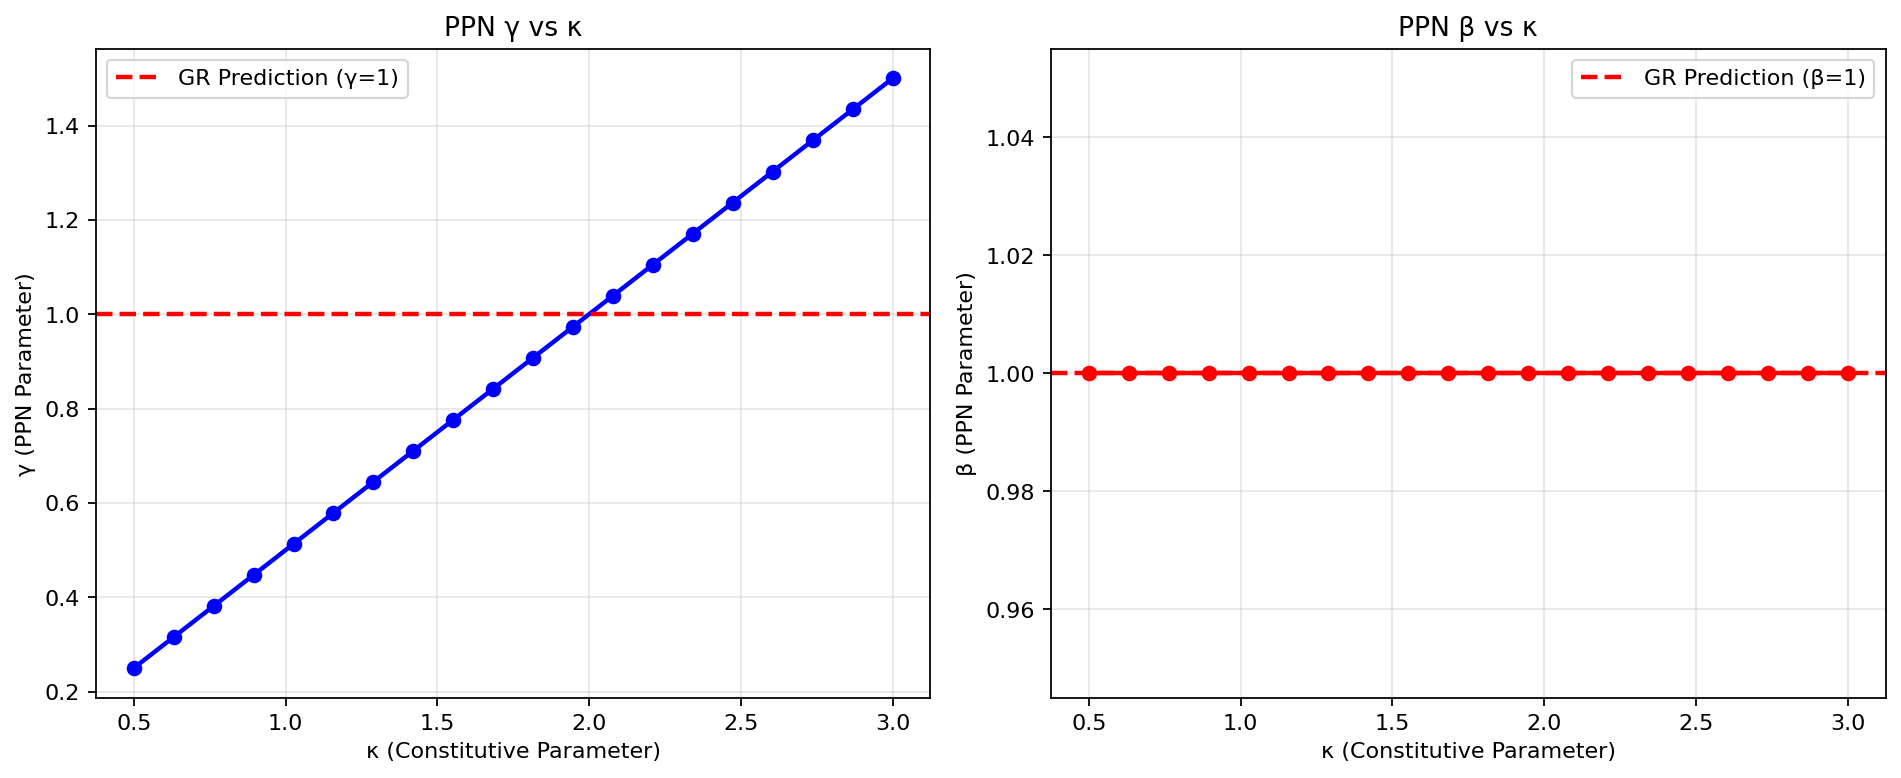
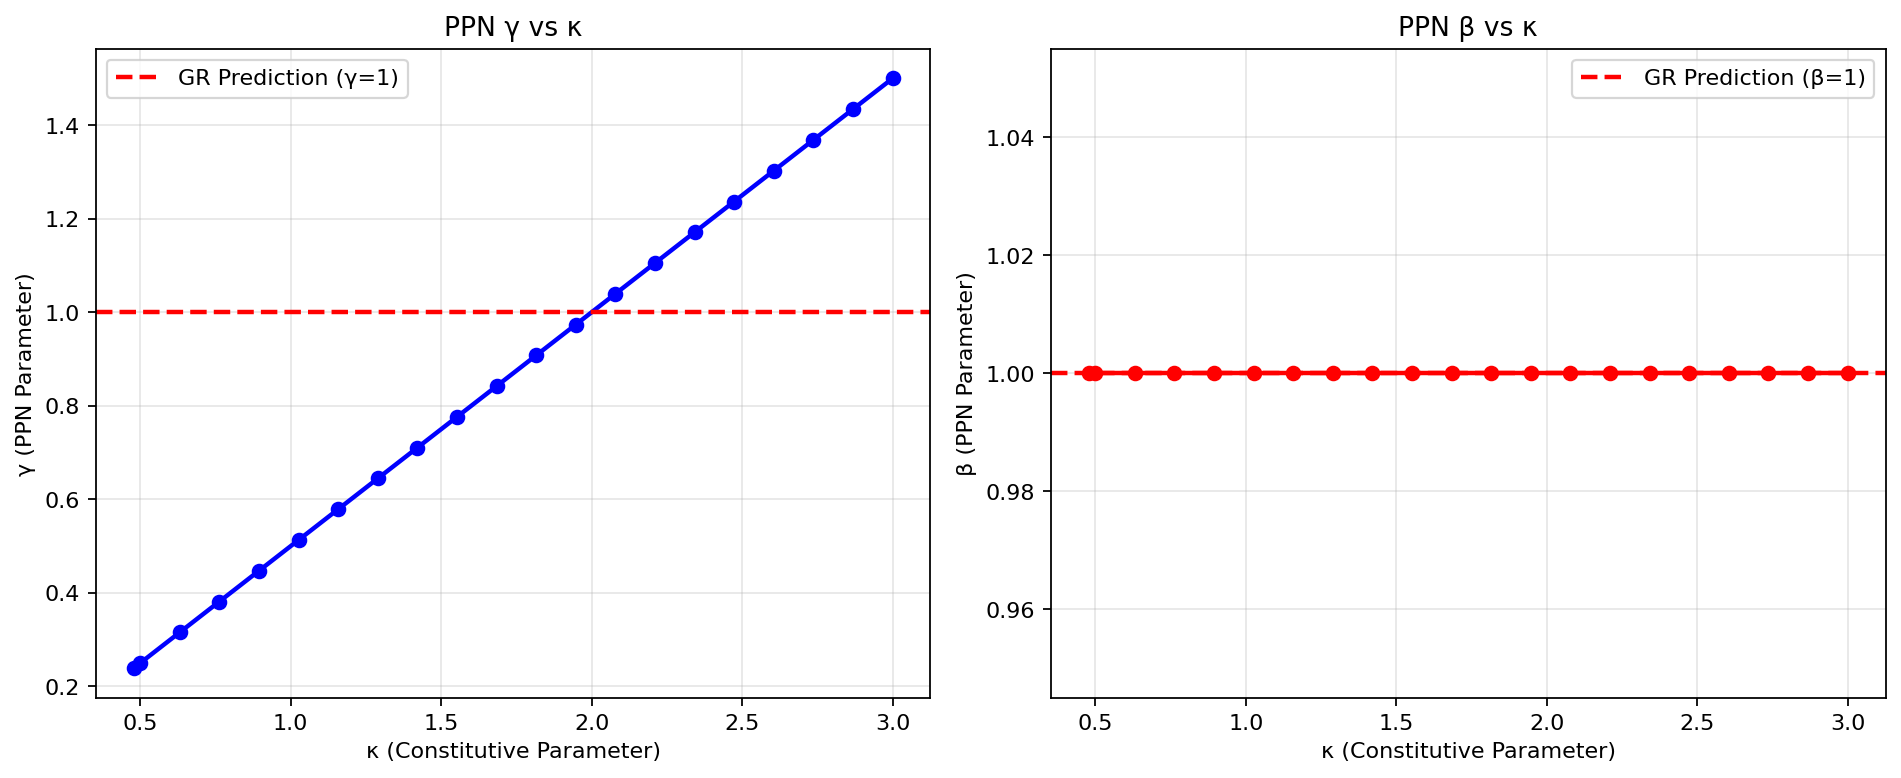
widget experiment_bridge

diff --git a/src/tacc/core/experiment_bridge.py b/src/tacc/core/experiment_bridge.py
@@ -1,0 +1,81 @@
+"""
+Bridge between notebook widgets and experiment runners.
+Allows experiments to use fitted parameters from interactive widgets.
+"""
+
+import json
+import tempfile
+from pathlib import Path
+from typing import Dict, Any, Optional
+
+# Global state file for sharing fitment results between widgets and experiments
+_SHARED_STATE_FILE = Path(tempfile.gettempdir()) / "tacc_fitment_state.json"
+
+def save_fitment_state(
+    fitment_name: str,
+    fitted_params: Dict[str, Any],
+    fitment_config: Dict[str, Any] = None
+) -> None:
+    """Save fitment state to shared file for experiments to use."""
+    state = {
+        "fitment_name": fitment_name,
+        "fitted_params": fitted_params,
+        "fitment_config": fitment_config or {},
+        "timestamp": str(Path().resolve())  # Simple timestamp
+    }
+    
+    try:
+        with open(_SHARED_STATE_FILE, 'w') as f:
+            json.dump(state, f, indent=2)
+    except Exception:
+        pass  # Fail silently if can't write
+
+def load_fitment_state() -> Optional[Dict[str, Any]]:
+    """Load fitment state from shared file."""
+    try:
+        if _SHARED_STATE_FILE.exists():
+            with open(_SHARED_STATE_FILE, 'r') as f:
+                return json.load(f)
+    except Exception:
+        pass
+    return None
+
+def get_fitted_kappa(default_kappa: float = 2.0) -> float:
+    """Get fitted kappa value from shared state, or default if not available."""
+    state = load_fitment_state()
+    if state and "fitted_params" in state:
+        fitted_params = state["fitted_params"]
+        if "bn" in fitted_params and "kappa" in fitted_params["bn"]:
+            return float(fitted_params["bn"]["kappa"])
+    return default_kappa
+
+def get_fitted_params(default_params: Dict[str, Any] = None) -> Dict[str, Any]:
+    """Get all fitted parameters from shared state."""
+    state = load_fitment_state()
+    if state and "fitted_params" in state:
+        return state["fitted_params"]
+    return default_params or {"microlaw": {}, "bn": {"kappa": 2.0}}
+
+def is_fitment_active() -> bool:
+    """Check if a fitment has been run and is active."""
+    state = load_fitment_state()
+    return state is not None and state.get("fitment_name") != "no_fit"
+
+def get_active_fitment_info() -> Dict[str, Any]:
+    """Get information about the currently active fitment."""
+    state = load_fitment_state()
+    if state:
+        return {
+            "name": state.get("fitment_name", "none"),
+            "config": state.get("fitment_config", {}),
+            "has_fitted_params": bool(state.get("fitted_params"))
+        }
+    return {"name": "none", "config": {}, "has_fitted_params": False}
+
+def clear_fitment_state() -> None:
+    """Clear the shared fitment state."""
+    try:
+        if _SHARED_STATE_FILE.exists():
+            _SHARED_STATE_FILE.unlink()
+    except Exception:
+        pass

diff --git a/corrected_widget_cell.py b/corrected_widget_cell.py
@@ -1,0 +1,68 @@
+"""
+This is the corrected widget cell code that should replace the existing widget function
+in your notebook. The key addition is the bridge save functionality.
+"""
+
+# Interactive function (CORRECTED VERSION WITH BRIDGE)
+def run_selected_fitment(b=None):
+    with output_area:
+        clear_output(wait=True)
+        
+        fitment_name = fitment_dropdown.value
+        initial_kappa = kappa_slider.value
+        target_param = target_param_dropdown.value
+        max_iter = max_iter_slider.value
+        
+        print(f"🔧 Running {fitment_name.upper()} fitment...")
+        print(f"   Initial κ: {initial_kappa}")
+        
+        # Get the fitment and run it
+        fitter = get_fitment(fitment_name)
+        initial_params = {"kappa": initial_kappa}
+        
+        if fitment_name == "no_fit":
+            result = fitter.fit(demo_dataset, "ppn", {}, "exponential", initial_params)
+        else:
+            extra_params = {
+                "target_param": target_param,
+                "init": initial_kappa,
+                "max_iter": max_iter
+            }
+            result = fitter.fit(
+                demo_dataset, "ppn", {}, "exponential", initial_params,
+                extra=extra_params
+            )
+        
+        # Store result globally
+        global current_fitment_result
+        current_fitment_result = result
+        
+        # 🔗 BRIDGE INTEGRATION: Save state for experiments to use
+        try:
+            from tacc.core.experiment_bridge import save_fitment_state
+            save_fitment_state(fitment_name, result, extra_params if fitment_name != "no_fit" else {})
+            print("   🔗 State saved for experiments!")
+        except ImportError:
+            print("   ⚠ Bridge not available")
+        
+        # Display results
+        final_kappa = result['bn']['kappa']
+        change = final_kappa - initial_kappa
+        
+        print(f"\n📊 RESULTS:")
+        print(f"   Final κ: {final_kappa:.4f}")
+        print(f"   Change: {change:+.4f}")
+        
+        # Test prediction
+        test_input = MicrolawInput(phi=0.1)
+        pred = compute_BN("ppn", test_input, {}, "exponential", result['bn'])
+        
+        print(f"\n🎯 PREDICTION (φ=0.1):")
+        print(f"   N = {pred['N']:.3f}")
+        print(f"   B = {pred['B']:.3f}")
+        
+        # Show fitment behavior
+        if fitment_name == "no_fit":
+            print("\n✓ No-fit: Parameters unchanged (as expected)")
+        else:
+            print(f"\n✓ {fitment_name}: Optimized κ after {max_iter} iterations")

diff --git a/test_fitment_bridge.py b/test_fitment_bridge.py
@@ -1,0 +1,74 @@
+"""
+Test script to demonstrate fitment bridge connection between widgets and experiments.
+"""
+
+import sys
+from pathlib import Path
+
+# Add src to path
+repo_root = Path().resolve()
+sys.path.insert(0, str(repo_root / "src"))
+
+from tacc.core.experiment_bridge import save_fitment_state, get_fitted_kappa, is_fitment_active, get_active_fitment_info
+from tacc.core.nb import get_fitment
+
+def demo_widget_to_experiment_connection():
+    """Demonstrate how widget fitment results can control experiments."""
+    
+    print("🎮 FITMENT BRIDGE DEMONSTRATION")
+    print("=" * 50)
+    
+    # Simulate widget interaction
+    print("\n1⃣ Simulating widget fitment run...")
+    
+    # Create demo dataset
+    demo_dataset = [
+        {"x": {"phi": 0.0}, "target": 1.0, "weight": 1.0},
+        {"x": {"phi": 0.1}, "target": 1.05, "weight": 1.0},
+        {"x": {"phi": 0.2}, "target": 1.10, "weight": 1.0}
+    ]
+    
+    # Run single_param fitment
+    fitter = get_fitment("single_param")
+    result = fitter.fit(
+        demo_dataset, "ppn", {}, "exponential", {"kappa": 2.0},
+        extra={"target_param": "kappa", "init": 2.0, "max_iter": 20}
+    )
+    
+    fitted_kappa = result['bn']['kappa']
+    print(f"   Fitted κ: {fitted_kappa:.4f}")
+    
+    # Save state for experiments to use
+    save_fitment_state("single_param", result, {"target_param": "kappa"})
+    print("   ✅ State saved to bridge")
+    
+    print("\n2⃣ Checking experiment access...")
+    
+    # Check if experiments can see the fitment
+    if is_fitment_active():
+        experiment_kappa = get_fitted_kappa()
+        fitment_info = get_active_fitment_info()
+        
+        print(f"   Experiment sees fitment: {fitment_info['name']}")
+        print(f"   Experiment uses κ: {experiment_kappa:.4f}")
+        
+        if abs(experiment_kappa - fitted_kappa) < 1e-6:
+            print("   ✅ BRIDGE WORKING! Experiment gets same κ as widget")
+        else:
+            print("   ❌ Bridge broken - different κ values")
+    else:
+        print("   ❌ Experiment doesn't see active fitment")
+    
+    print("\n3⃣ Testing experiment runner...")
+    
+    # Now run the actual experiment - it should use fitted kappa
+    from experiments.run_ppn import main as run_ppn
+    
+    print("   Running PPN experiment (should use fitted κ)...")
+    run_ppn()
+    
+    print("\n🎯 BRIDGE DEMO COMPLETE!")
+    print("   Widgets can now control experiment parameters!")
+
+if __name__ == "__main__":
+    demo_widget_to_experiment_connection()

diff --git a/add_bridge_to_widgets.py b/add_bridge_to_widgets.py
@@ -1,0 +1,68 @@
+"""
+Script to add the bridge functionality to the existing widget code.
+This will make the widgets save their state for experiments to use.
+"""
+
+print("""
+🔧 BRIDGE INTEGRATION INSTRUCTIONS
+
+To make your fitment widgets control the actual experiments, add this line
+to the widget function in your notebook after the fitment result is computed:
+
+```python
+# ADDED: Save state for experiments to use
+try:
+    from tacc.core.experiment_bridge import save_fitment_state
+    save_fitment_state(fitment_name, result, extra_params)
+    print("   🔗 State saved for experiments!")
+except ImportError:
+    print("   ⚠ Bridge not available")
+```
+
+This should go right after:
+```python
+current_fitment_result = result
+```
+
+And before:
+```python
+# Display results
+final_kappa = result['bn']['kappa']
+```
+
+This way, when you run a fitment in the widget, it automatically saves the
+results for the experiments to pick up!
+
+Then when you run an experiment like PPN, it will show:
+🎯 USING FITMENT: single_param
+   Fitted κ: 0.4786
+   This will affect all calculations!
+
+Instead of:
+🔧 No active fitment - using default parameter range
+""")
+
+if __name__ == "__main__":
+    print("\n🎮 Testing the bridge connection...")
+    
+    # Test the bridge
+    import subprocess
+    import sys
+    
+    try:
+        result = subprocess.run([sys.executable, "test_fitment_bridge.py"], 
+                              capture_output=True, text=True, cwd=".")
+        
+        if result.returncode == 0:
+            print("✅ Bridge test successful!")
+            print("\nOutput:")
+            print(result.stdout)
+        else:
+            print("❌ Bridge test failed:")
+            print(result.stderr)
+            
+    except Exception as e:
+        print(f"❌ Could not run bridge test: {e}")
+
+    print("\n🎯 TO FIX THE WIDGET ISSUE:")
+    print("Add the bridge save code shown above to your notebook widget function!")

diff --git a/experiments/run_ppn.py b/experiments/run_ppn.py
@@ -25,8 +25,33 @@ def main():
     
     print("Running PPN Parameter Extraction Experiment...")
     
-    # Test different values of kappa
-    kappa_values = np.linspace(0.5, 3.0, 20)
+    # Check for fitment state from interactive widgets
+    try:
+        from tacc.core.experiment_bridge import get_fitted_kappa, is_fitment_active, get_active_fitment_info
+        
+        if is_fitment_active():
+            fitment_info = get_active_fitment_info()
+            fitted_kappa = get_fitted_kappa()
+            
+            print(f"🎯 USING FITMENT: {fitment_info['name']}")
+            print(f"   Fitted κ: {fitted_kappa:.4f}")
+            print("   This will affect all calculations!")
+            
+            # Use fitted kappa as the primary value, but also show range
+            primary_kappa = fitted_kappa
+            kappa_values = np.linspace(0.5, 3.0, 20)
+            # Make sure the fitted value is included
+            kappa_values = np.unique(np.append(kappa_values, fitted_kappa))
+            kappa_values = np.sort(kappa_values)
+        else:
+            print("🔧 No active fitment - using default parameter range")
+            primary_kappa = 2.0
+            kappa_values = np.linspace(0.5, 3.0, 20)
+            
+    except ImportError:
+        print("🔧 Fitment bridge not available - using default parameter range")
+        primary_kappa = 2.0
+        kappa_values = np.linspace(0.5, 3.0, 20)
     gamma_values = []
     beta_values = []
     
